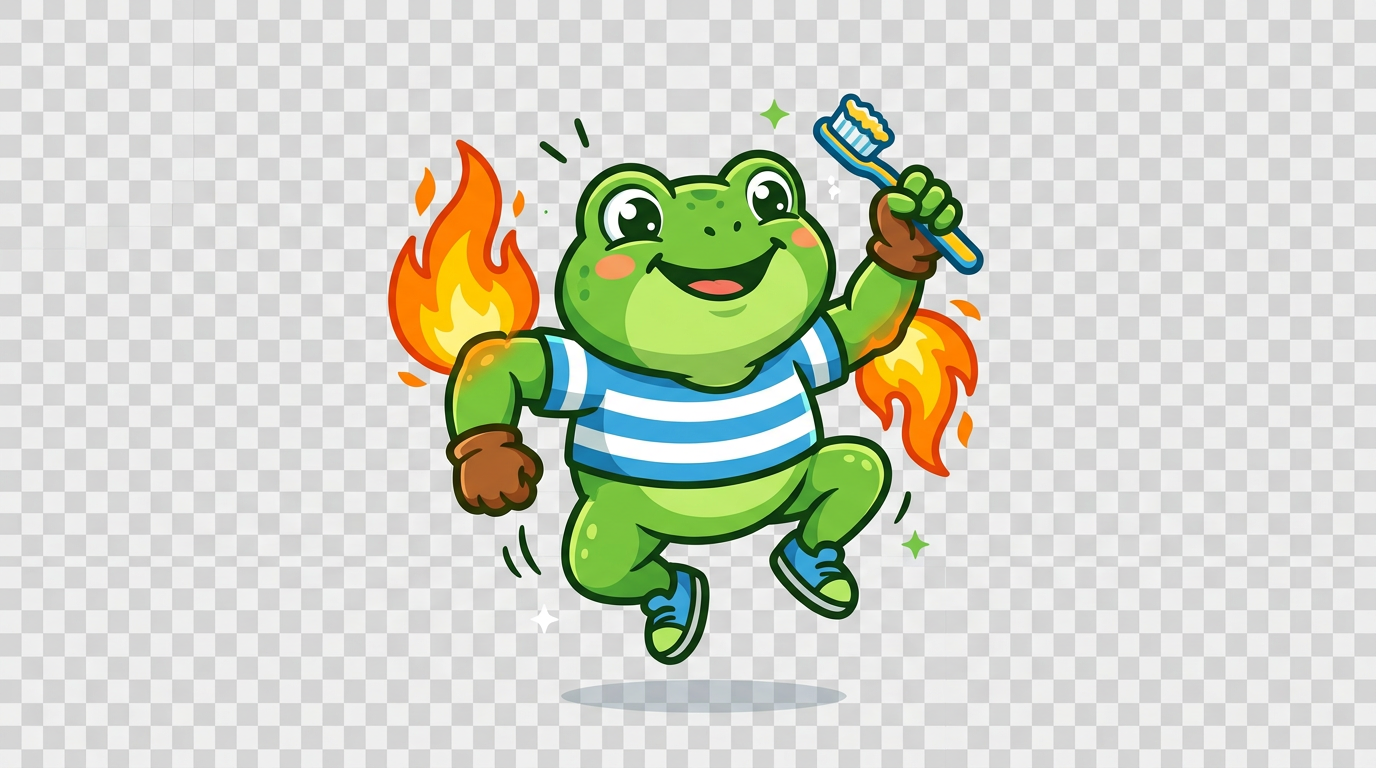
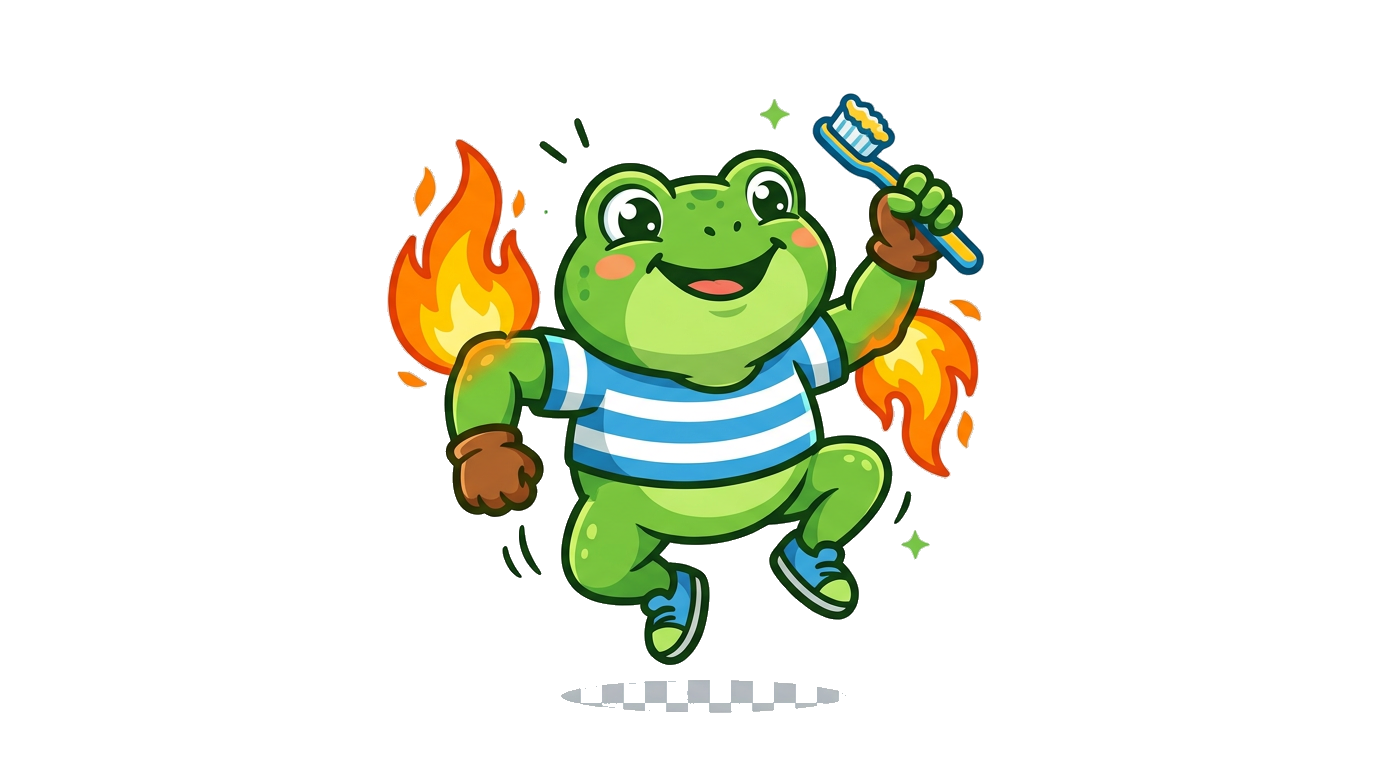
Updating buddy frog with transparent background and added pageination to sticker selector.

diff --git a/src/components/PhotoEditor/index.tsx b/src/components/PhotoEditor/index.tsx
@@ -28,6 +28,7 @@ const STICKER_BASE_SIZE = 80;
 const BOMB_HOLD_DURATION = 2000;
 const MAX_STICKERS = 30;
 const STICKER_OFFSET = 5;
+const STICKERS_PER_PAGE = 9;
 
 export function PhotoEditor({ photo, capturedCreatures, onDone, onBack, debugMode = false }: PhotoEditorProps) {
   const [placedStickers, setPlacedStickers] = useState<DraggableSticker[]>([]);
@@ -35,6 +36,7 @@ export function PhotoEditor({ photo, capturedCreatures, onDone, onBack, debugMod
   const [draggedSticker, setDraggedSticker] = useState<string | null>(null);
   const [selectedStickerId, setSelectedStickerId] = useState<string | null>(null);
   const [showStickerMenu, setShowStickerMenu] = useState(false);
+  const [stickerPickerPage, setStickerPickerPage] = useState(0);
   const [lastAddedCreatureId, setLastAddedCreatureId] = useState<string | null>(null);
   const [bombProgress, setBombProgress] = useState(0);
   const [isBombHolding, setIsBombHolding] = useState(false);
@@ -319,7 +321,32 @@ export function PhotoEditor({ photo, capturedCreatures, onDone, onBack, debugMod
     };
   }, [endBombHold]);
 
+  const stickerPickerTotalPages = Math.max(
+    1,
+    Math.ceil(capturedCreatures.length / STICKERS_PER_PAGE)
+  );
+
+  useEffect(() => {
+    if (!showStickerMenu) return;
+    const maxIdx = stickerPickerTotalPages - 1;
+    setStickerPickerPage(prev => (prev <= maxIdx ? prev : maxIdx));
+  }, [showStickerMenu, stickerPickerTotalPages]);
+
+  const stepStickerPickerPage = useCallback(
+    (delta: number) => {
+      const total = Math.max(1, Math.ceil(capturedCreatures.length / STICKERS_PER_PAGE));
+      setStickerPickerPage(prev => (prev + delta + total) % total);
+    },
+    [capturedCreatures.length]
+  );
+
   const lastAddedCreature = capturedCreatures.find(c => c.id === lastAddedCreatureId);
+
+  const stickerPickerSliceStart = stickerPickerPage * STICKERS_PER_PAGE;
+  const paginatedCreatures = capturedCreatures.slice(
+    stickerPickerSliceStart,
+    stickerPickerSliceStart + STICKERS_PER_PAGE
+  );
 
   return (
     <div className="flex flex-col h-full">
@@ -656,10 +683,10 @@ export function PhotoEditor({ photo, capturedCreatures, onDone, onBack, debugMod
           onClick={() => setShowStickerMenu(false)}
         >
           <div 
-            className="bg-purple-900 rounded-2xl p-4 m-4 max-w-md max-h-[80vh] overflow-auto"
+            className="bg-purple-900 rounded-2xl p-4 m-4 max-w-md max-h-[80vh] overflow-hidden flex flex-col"
             onClick={(e) => e.stopPropagation()}
           >
-            <div className="flex items-center justify-between mb-4">
+            <div className="flex items-center justify-between mb-3">
               <h2 className="text-xl font-bold">Add Creature Sticker</h2>
               <button
                 onClick={() => setShowStickerMenu(false)}
@@ -675,24 +702,49 @@ export function PhotoEditor({ photo, capturedCreatures, onDone, onBack, debugMod
                 <p className="text-sm mt-2">Complete brushing sessions to catch creatures.</p>
               </div>
             ) : (
-              <div className="grid grid-cols-3 gap-3">
-                {capturedCreatures.map(creature => (
+              <>
+                <div className="flex items-center justify-center gap-2 mb-3">
                   <button
-                    key={creature.id}
-                    onClick={() => handleAddCreatureSticker(creature)}
-                    className="aspect-square bg-purple-800/50 rounded-xl p-2 flex flex-col items-center justify-center gap-1 hover:bg-purple-700/50 active:scale-95 transition-all"
+                    type="button"
+                    onClick={() => stepStickerPickerPage(-1)}
+                    disabled={stickerPickerTotalPages <= 1}
+                    className="min-w-[2.5rem] py-2 px-3 rounded-xl font-semibold text-purple-100 bg-purple-800 hover:bg-purple-700 active:scale-95 transition-all disabled:opacity-40 disabled:pointer-events-none"
+                    aria-label="Previous sticker page"
                   >
-                    <img
-                      src={`${import.meta.env.BASE_URL}creatures/${creature.id}.png`}
-                      alt={creature.name}
-                      className="w-16 h-16 object-contain"
-                    />
-                    <span className="text-xs text-purple-200 truncate w-full text-center">
-                      {creature.name}
-                    </span>
+                    ←
                   </button>
-                ))}
-              </div>
+                  <span className="text-sm text-purple-200 tabular-nums min-w-[5.5rem] text-center">
+                    {stickerPickerPage + 1} / {stickerPickerTotalPages}
+                  </span>
+                  <button
+                    type="button"
+                    onClick={() => stepStickerPickerPage(1)}
+                    disabled={stickerPickerTotalPages <= 1}
+                    className="min-w-[2.5rem] py-2 px-3 rounded-xl font-semibold text-purple-100 bg-purple-800 hover:bg-purple-700 active:scale-95 transition-all disabled:opacity-40 disabled:pointer-events-none"
+                    aria-label="Next sticker page"
+                  >
+                    →
+                  </button>
+                </div>
+                <div className="grid grid-cols-3 gap-3">
+                  {paginatedCreatures.map(creature => (
+                    <button
+                      key={creature.id}
+                      onClick={() => handleAddCreatureSticker(creature)}
+                      className="aspect-square bg-purple-800/50 rounded-xl p-2 flex flex-col items-center justify-center gap-1 hover:bg-purple-700/50 active:scale-95 transition-all"
+                    >
+                      <img
+                        src={`${import.meta.env.BASE_URL}creatures/${creature.id}.png`}
+                        alt={creature.name}
+                        className="w-16 h-16 object-contain"
+                      />
+                      <span className="text-xs text-purple-200 truncate w-full text-center">
+                        {creature.name}
+                      </span>
+                    </button>
+                  ))}
+                </div>
+              </>
             )}
           </div>
         </div>
